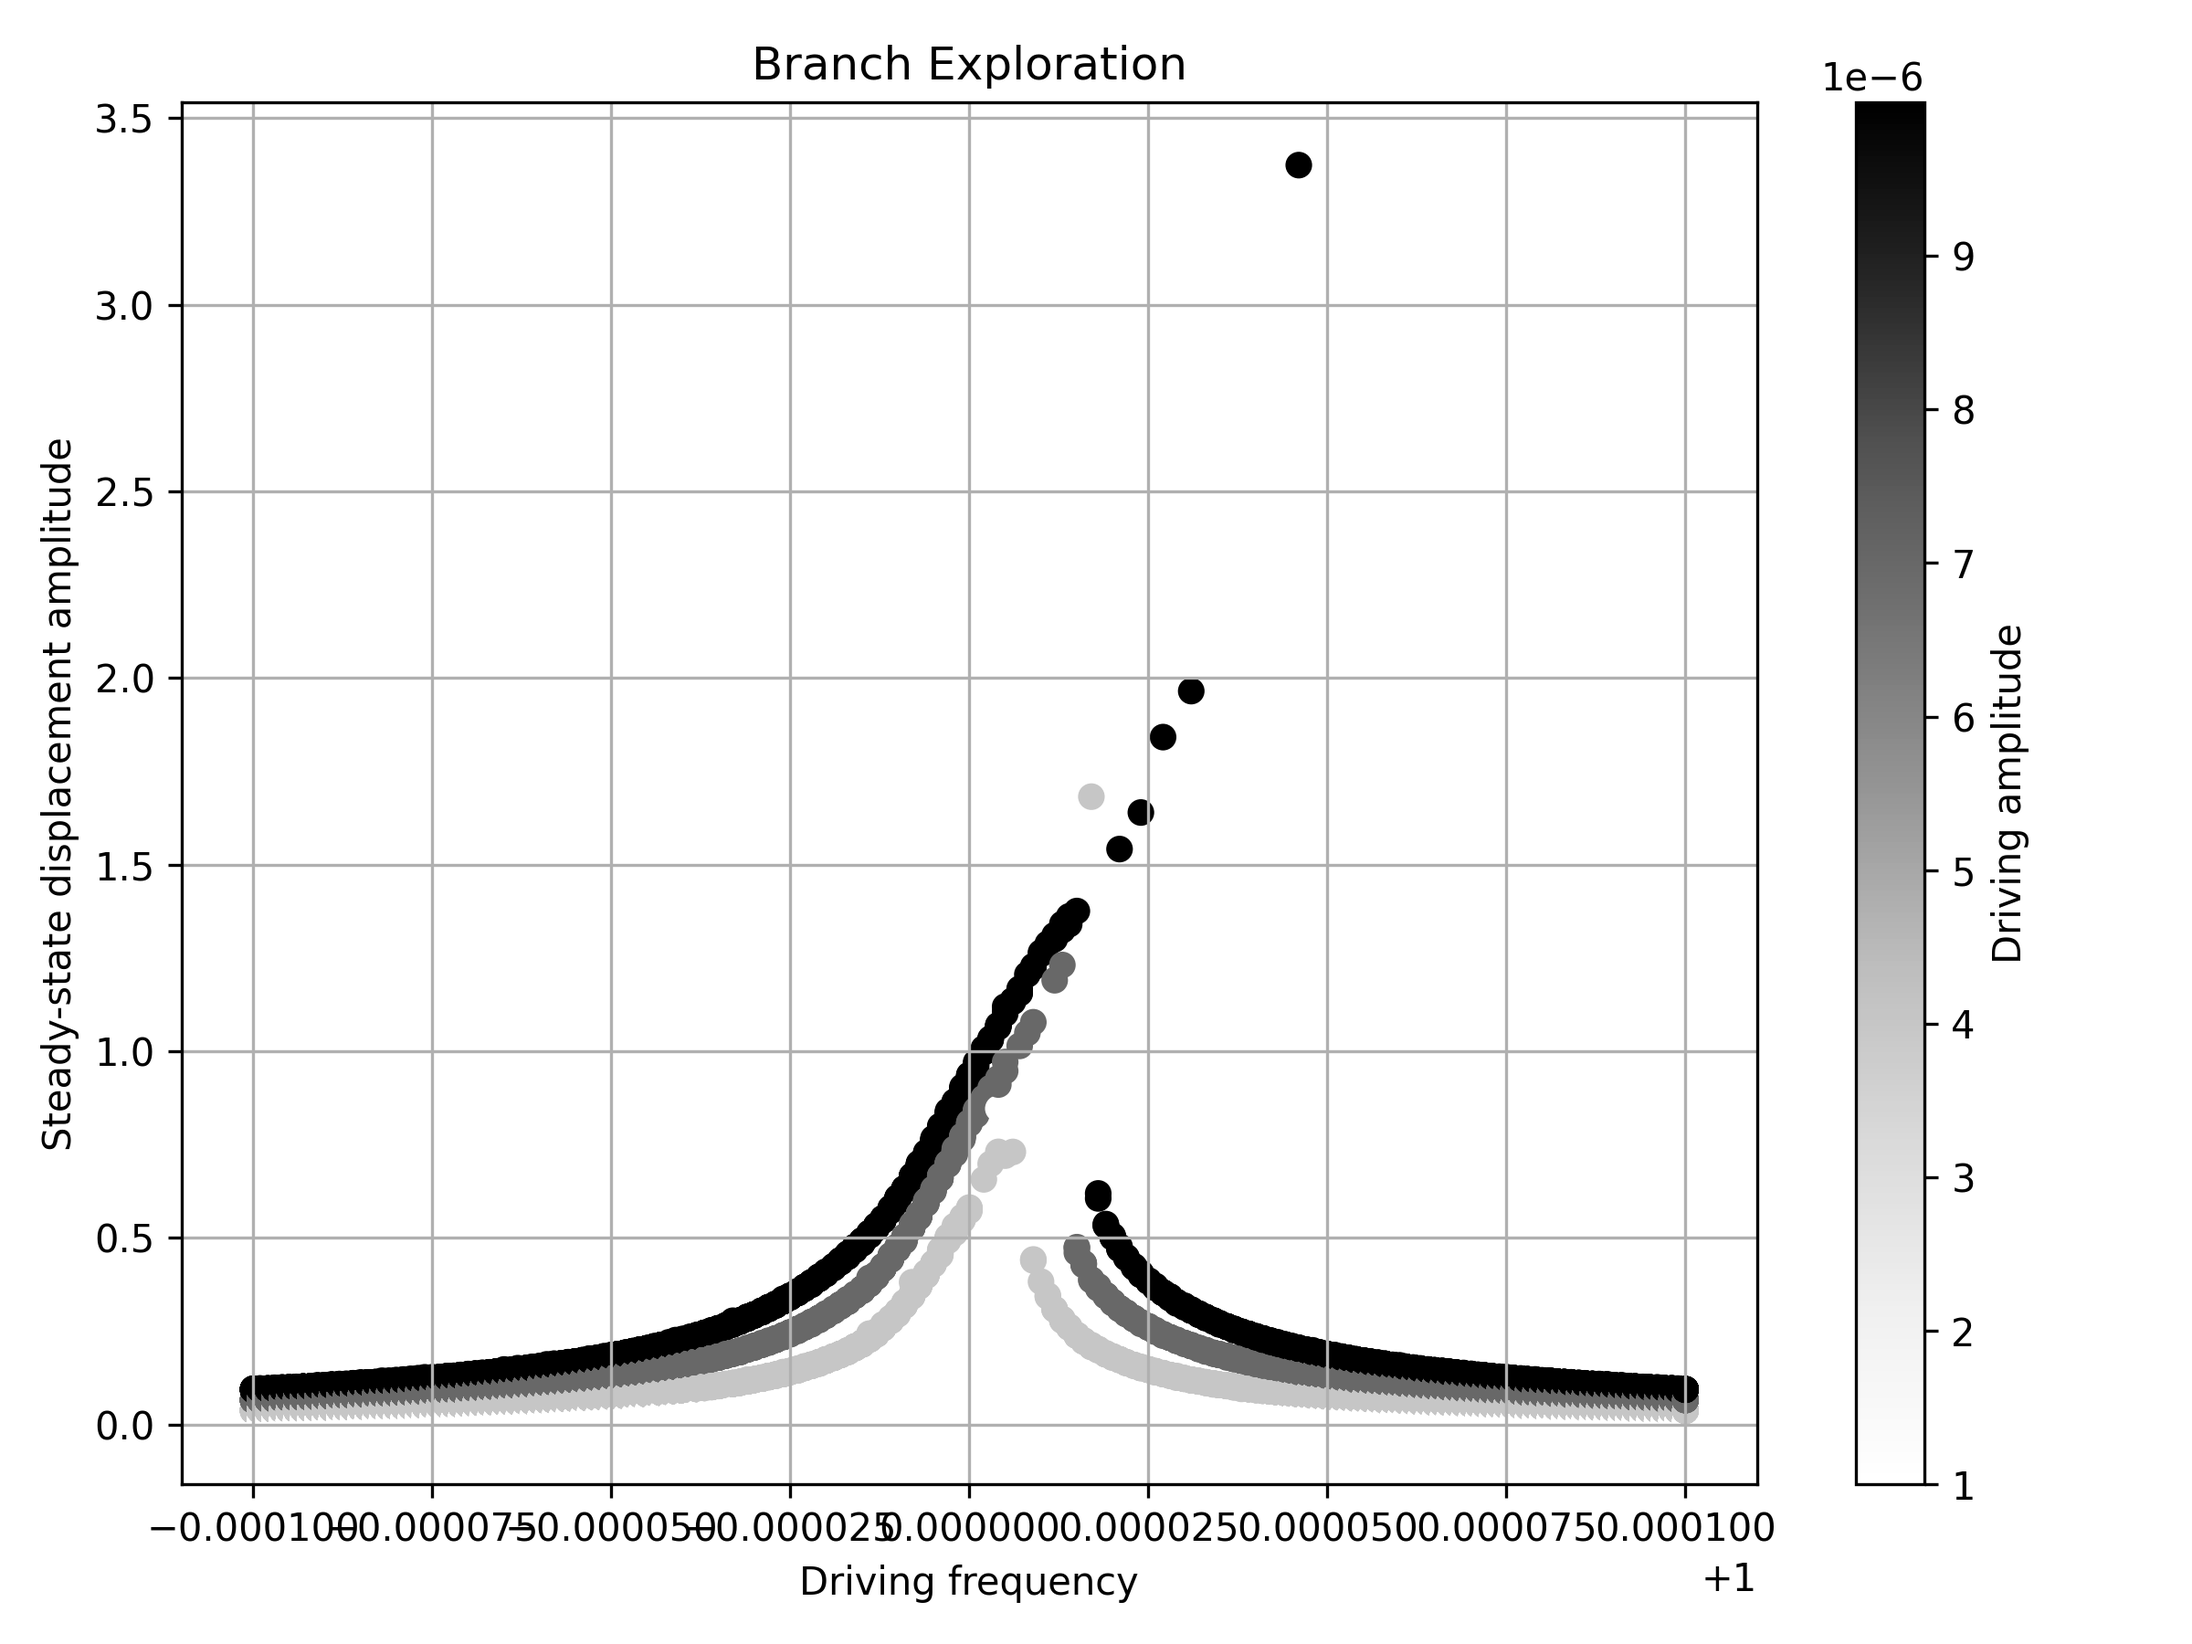
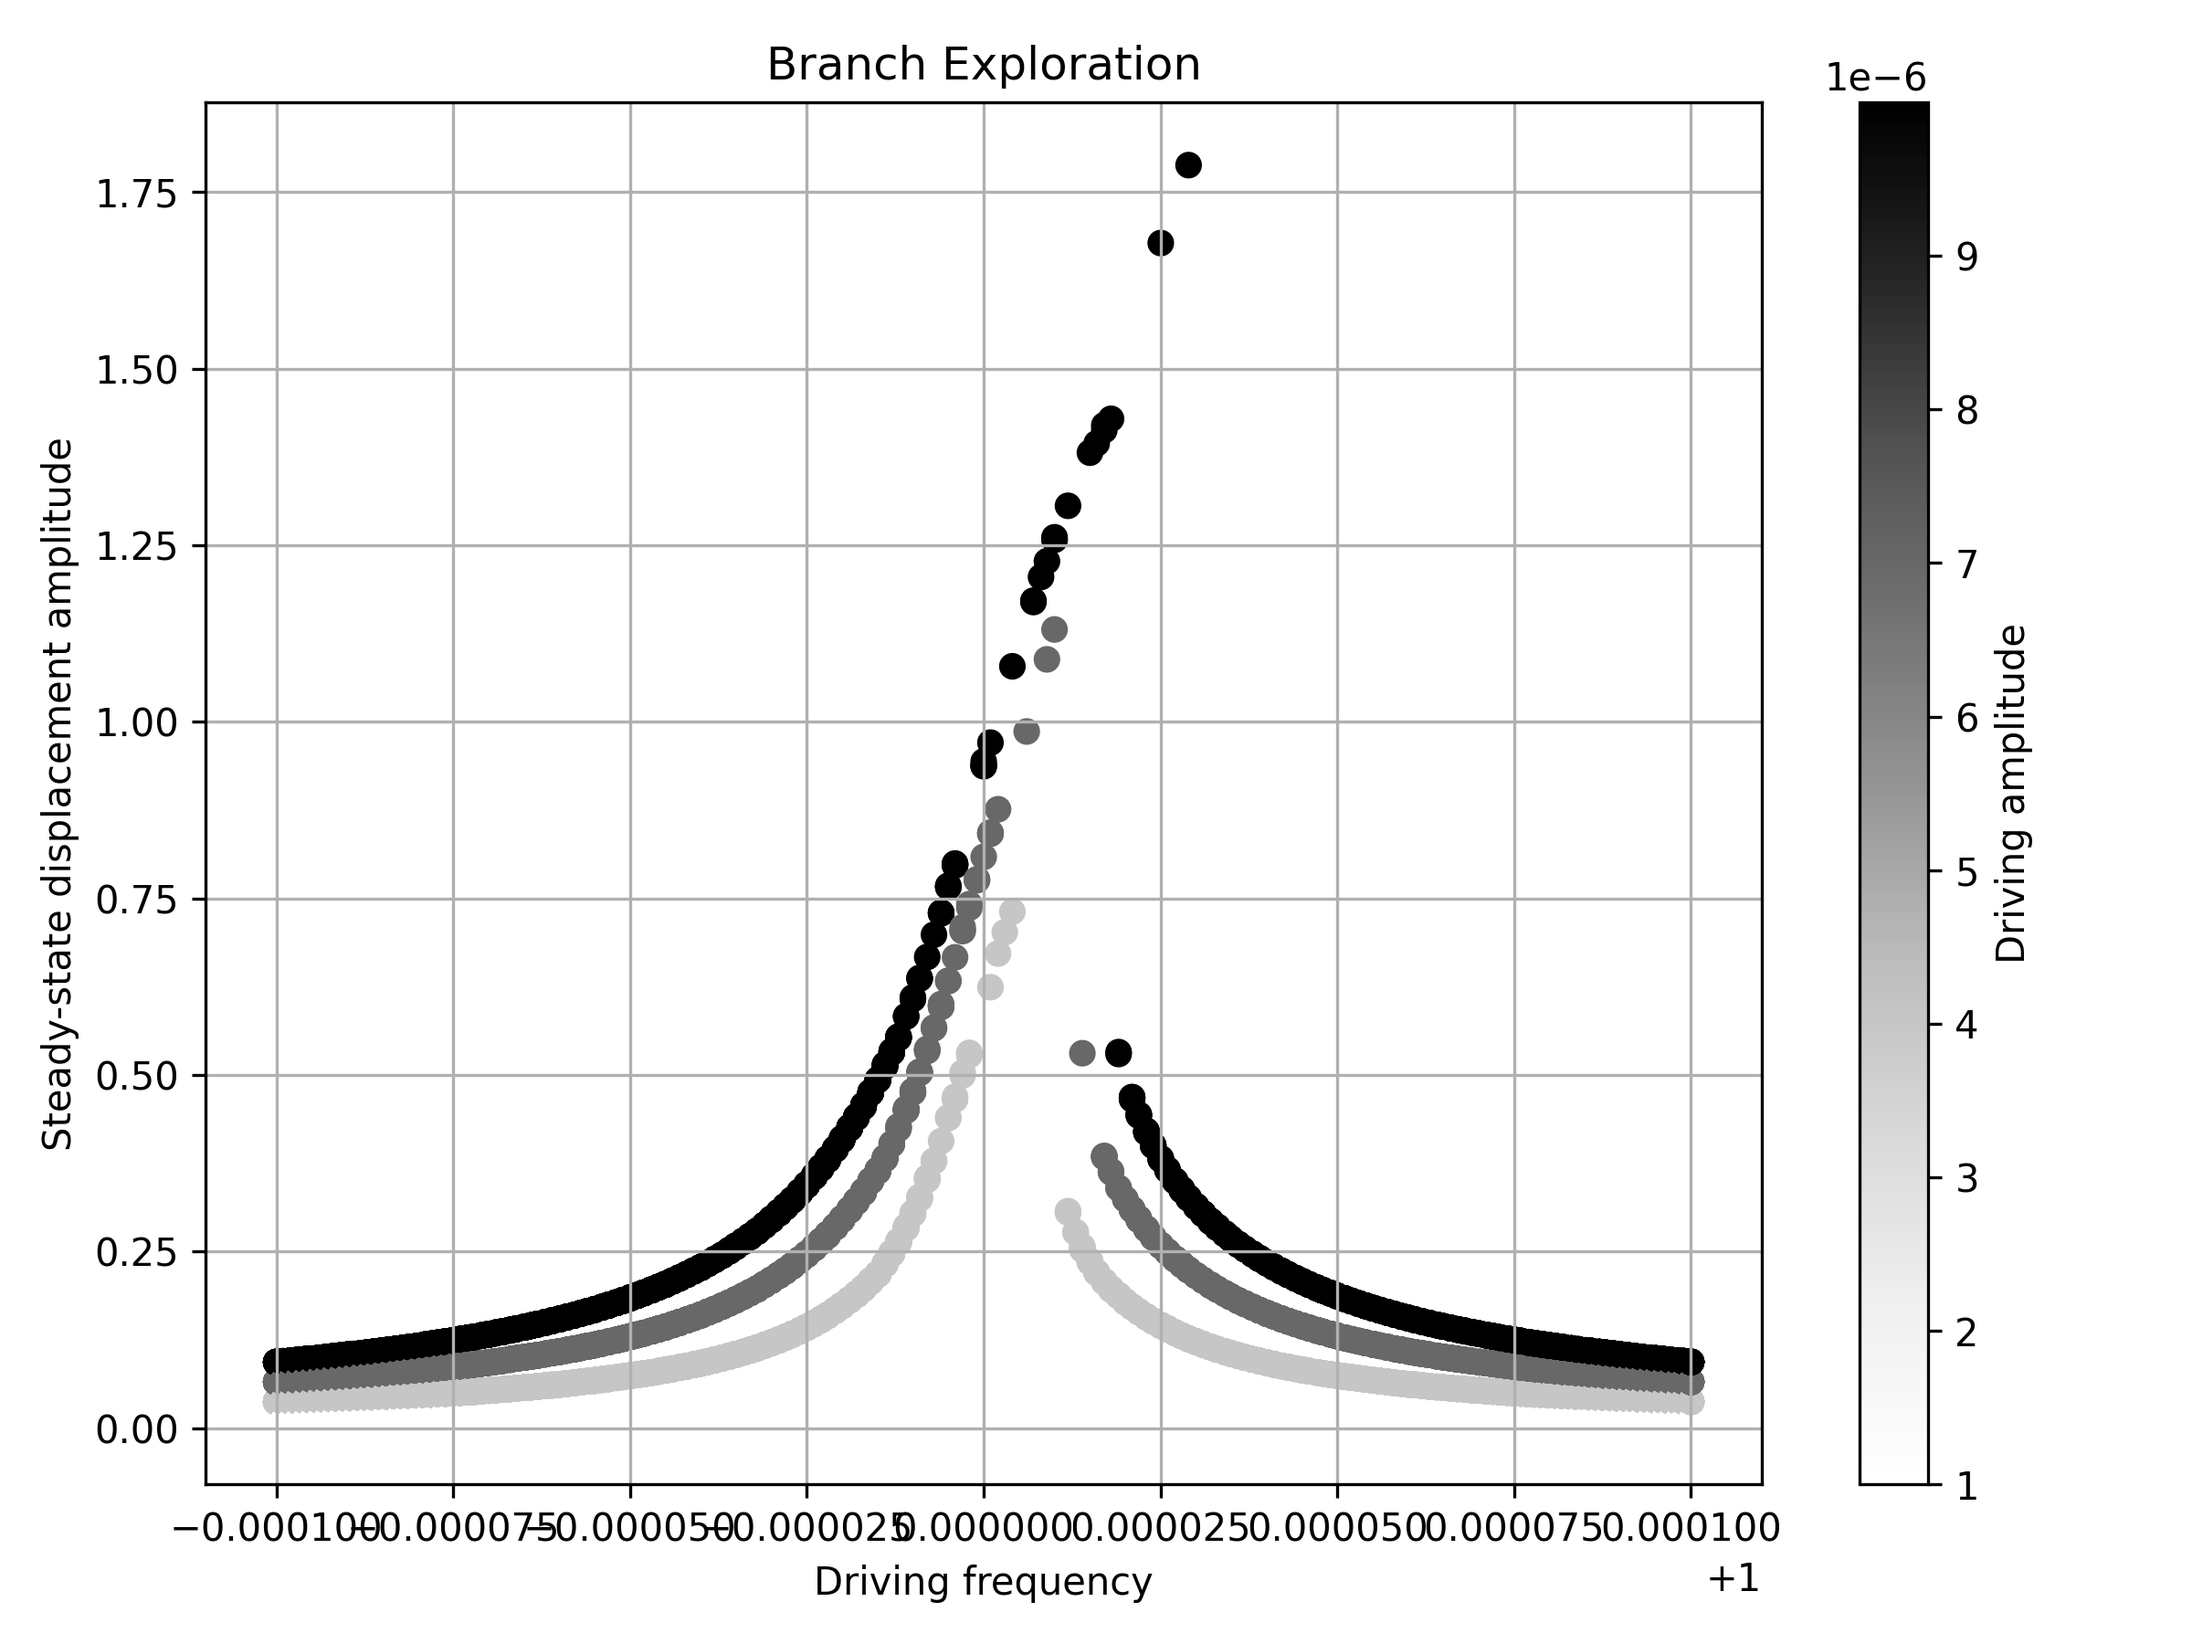
Enhance MultipleShootingSolver with improved tolerances and line search parameters; update test solver configuration for consistency

diff --git a/src/oscidyn/solver/multiple_shooting_solver.py b/src/oscidyn/solver/multiple_shooting_solver.py
@@ -21,7 +21,8 @@ class MultipleShootingSolver(AbstractSolver):
                  max_shooting_iterations: int = 20,
                  m_segments: int = 20, max_branches: int = 5, multistart: AbstractMultistart = None,
                  rtol: float = 1e-4, atol: float = 1e-7, progress_bar: bool = False,
-                 feas_tol: float = 1e-2, step_tol: float = 1e-3):
+                 feas_tol: float = 1e-5, step_tol: float = 1e-6,
+                 ls_beta: float = 0.5, ls_c: float = 1e-4, ls_max_iters: int = 8):
 
         self.n_time_steps = n_time_steps
         self.max_steps = max_steps
@@ -34,6 +35,9 @@ class MultipleShootingSolver(AbstractSolver):
         self.atol = atol
         self.feas_tol = feas_tol         # <<< NEW
         self.step_tol = step_tol         # <<< NEW
+        self.ls_beta = ls_beta
+        self.ls_c = ls_c
+        self.ls_max_iters = ls_max_iters
 
         self.model: AbstractModel = None
         self.n = None
@@ -206,19 +210,51 @@ class MultipleShootingSolver(AbstractSolver):
             k, done, *_ = carry
             return (~done) & (k < self.max_shooting_iterations)
 
+        @filter_jit
+        def _integrate_segment_endpoint(sk, t0k, t1k):
+            # Integrate only the base ODE from t0k to t1k and return y(t1k)
+            solk = diffrax.diffeqsolve(
+                diffrax.ODETerm(self._rhs),
+                solver,
+                t0=t0k, t1=t1k, dt0=None,
+                y0=sk,
+                saveat=diffrax.SaveAt(t1=True),
+                throw=False,
+                max_steps=self.max_steps,
+                progress_meter=diffrax.NoProgressMeter(),
+                stepsize_controller=diffrax.PIDController(rtol=self.rtol, atol=self.atol),
+                args=(driving_amplitude, driving_frequency),
+            )
+            # (n,) end-state
+            return jnp.atleast_1d(solk.ys)[-1]
+
+        def _residuals_from_s(s_current):
+            """Compute F_cont, F_last and phi(s) without sensitivities (cheap)."""
+            t0s, t1s = ts[:-1], ts[1:]
+            yk_end = jax.vmap(_integrate_segment_endpoint, in_axes=(0, 0, 0))(s_current, t0s, t1s)  # (m, n)
+            F_cont = yk_end[:-1] - s_current[1:]                     # (m-1, n)
+            F_last = yk_end[-1]  - s_current[0]                      # (n,)
+            # merit function: 0.5 * ||F||^2
+            phi = 0.5 * (jnp.sum(F_cont**2) + jnp.sum(F_last**2))
+            # norms (∞-norm) for feasibility reporting
+            resid_inf = jnp.maximum(jnp.max(jnp.abs(F_cont)), jnp.max(jnp.abs(F_last)))
+            return F_cont, F_last, phi, resid_inf
+
+        def _continue(carry):
+            k, done, *_ = carry
+            return (~done) & (k < self.max_shooting_iterations)
+
         def _one_iter(carry):
             k, done, s, _, _ = carry
 
+            # --- Full augmented pass for Jacobian & y_max at current s ---
             t0s, t1s = ts[:-1], ts[1:]
             yk, yMax, Gk = jax.vmap(_integrate_segment, in_axes=(0, 0, 0))(s, t0s, t1s)
-
-            # Residuals for current iterate s
-            F_cont = yk[:-1] - s[1:]   # (m-1, n)
-            F_last = yk[-1]  - s[0]    # (n,)
-
-            # Build condensed linear system for Newton step Δs
-            def _prod_step(P, Gi):
-                return Gi @ P, None
+            F_cont = yk[:-1] - s[1:]          # (m-1, n)
+            F_last = yk[-1]  - s[0]           # (n,)
+            # Forward / backward products to form condensed Newton system
+            eye_N = jnp.eye(n, dtype=s.dtype)
+            def _prod_step(P, Gi): return Gi @ P, None
             P, _ = jax.lax.scan(_prod_step, eye_N, Gk[:-1])
 
             G_next = Gk[1:][::-1]
@@ -239,17 +275,44 @@ class MultipleShootingSolver(AbstractSolver):
             _, ds_tail = jax.lax.scan(_prop_step, delta_s0, (Gk[:-1], F_cont))
             delta_s = jnp.vstack((delta_s0, ds_tail))   # (m, n)
 
-            s_new = s + delta_s
+            # --- Current merit value (cheap; uses base ODE endpoints only) ---
+            _, _, phi0, resid_inf0 = _residuals_from_s(s)
 
-            # ---------- Convergence check (∞-norm), NEW ----------
-            resid_inf = jnp.maximum(jnp.max(jnp.abs(F_cont)), jnp.max(jnp.abs(F_last)))
-            step_inf  = jnp.max(jnp.abs(delta_s))
+            # --- Backtracking line search on phi(s) ---
+            def _ls_cond(state):
+                alpha, iters, accepted, s_trial, phi_trial = state
+                keep_going = (~accepted) & (iters < self.ls_max_iters)
+                return keep_going
 
-            new_done = (resid_inf <= self.feas_tol) & (step_inf <= self.step_tol)
+            def _ls_body(state):
+                alpha, iters, accepted, s_trial, _ = state
+                s_trial = s + alpha * delta_s
+                # recompute residual and phi at trial using cheap endpoints
+                _, _, phi_trial, _ = _residuals_from_s(s_trial)
+                # Armijo: phi(s+αΔ) <= (1 - c α) phi(s)
+                accepted = phi_trial <= (1.0 - self.ls_c * alpha) * phi0
+                # if not accepted, shrink alpha
+                alpha_next = jax.lax.select(accepted, alpha, alpha * self.ls_beta)
+                iters_next = iters + jnp.int32(~accepted)
+                return (alpha_next, iters_next, accepted, s_trial, phi_trial)
 
-            # If converged, keep s (don’t apply the update); otherwise accept s_new
+            # init alpha=1
+            ls_init = (jnp.array(1.0, s.dtype),
+                       jnp.array(0, jnp.int32),
+                       jnp.array(False),
+                       s,      # placeholder
+                       phi0)   # placeholder
+            alpha, _, accepted, s_trial, _ = jax.lax.while_loop(_ls_cond, _ls_body, ls_init)
+
+            # choose update
+            s_new = jax.lax.select(accepted, s_trial, s + alpha * delta_s)
+
+            # --- Convergence check using current (pre-update) residual norm and step size ---
+            step_inf  = jnp.max(jnp.abs(alpha * delta_s))
+            new_done = (resid_inf0 <= self.feas_tol) & (step_inf <= self.step_tol)
+
+            # if converged, keep s; else accept damped update
             s_out = jax.lax.select(new_done, s, s_new)
-            # -----------------------------------------------------
 
             return (k + 1, new_done, s_out, yMax, Gk)
 

diff --git a/tests/frequency_sweep/test_frequency_sweep.py b/tests/frequency_sweep/test_frequency_sweep.py
@@ -9,7 +9,7 @@ MODEL = oscidyn.BaseDuffingOscillator.from_physical_params(Q=jnp.array([Q]), gam
 SWEEP_DIRECTION = oscidyn.SweepDirection.FORWARD
 DRIVING_FREQUENCY = jnp.linspace((1.0-10*full_width_half_max), (1.0+10*full_width_half_max), 201) 
 DRIVING_AMPLITUDE = jnp.linspace(0.1* omega_0**2/Q, 1.0*omega_0**2/Q, 4)
-SOLVER = oscidyn.MultipleShootingSolver(max_steps=50, m_segments=10, max_shooting_iterations=30, rtol=1e-5, atol=1e-7)
+SOLVER = oscidyn.MultipleShootingSolver(max_steps=50, m_segments=10, max_shooting_iterations=50, rtol=1e-6, atol=1e-7)
 PRECISION = oscidyn.Precision.SINGLE
 
 print("Frequency sweeping: ", MODEL)
